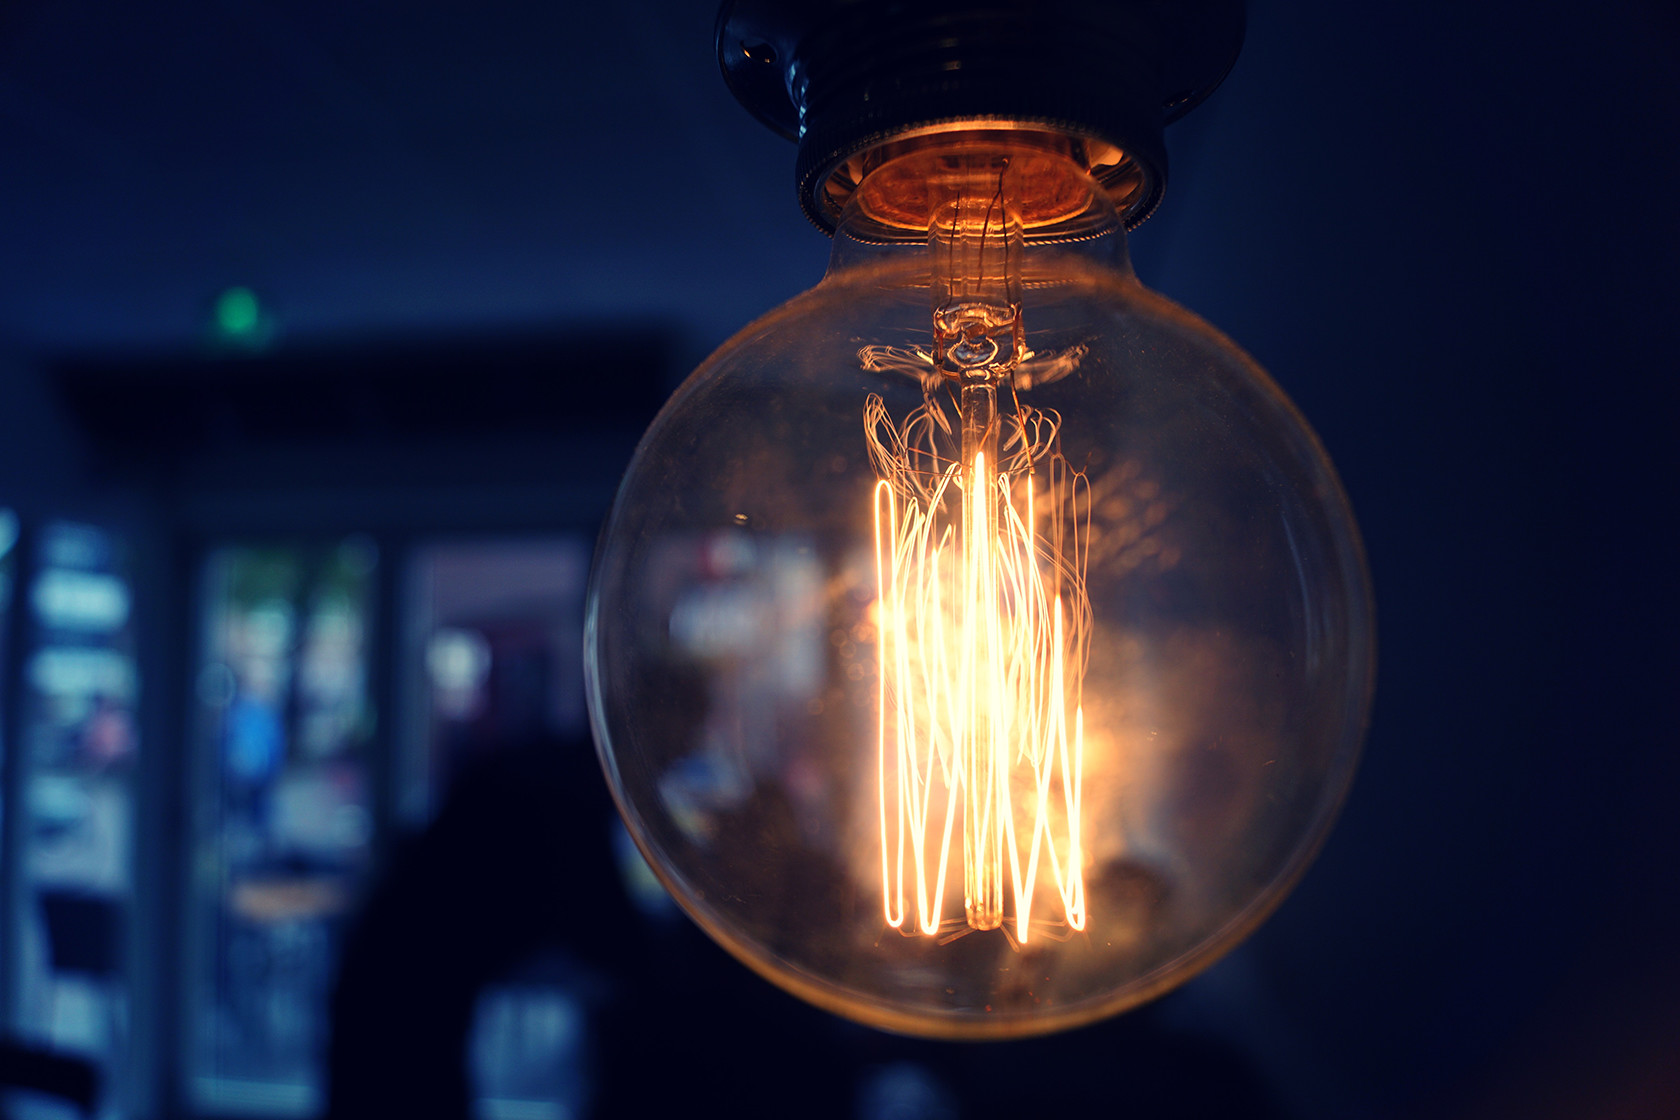
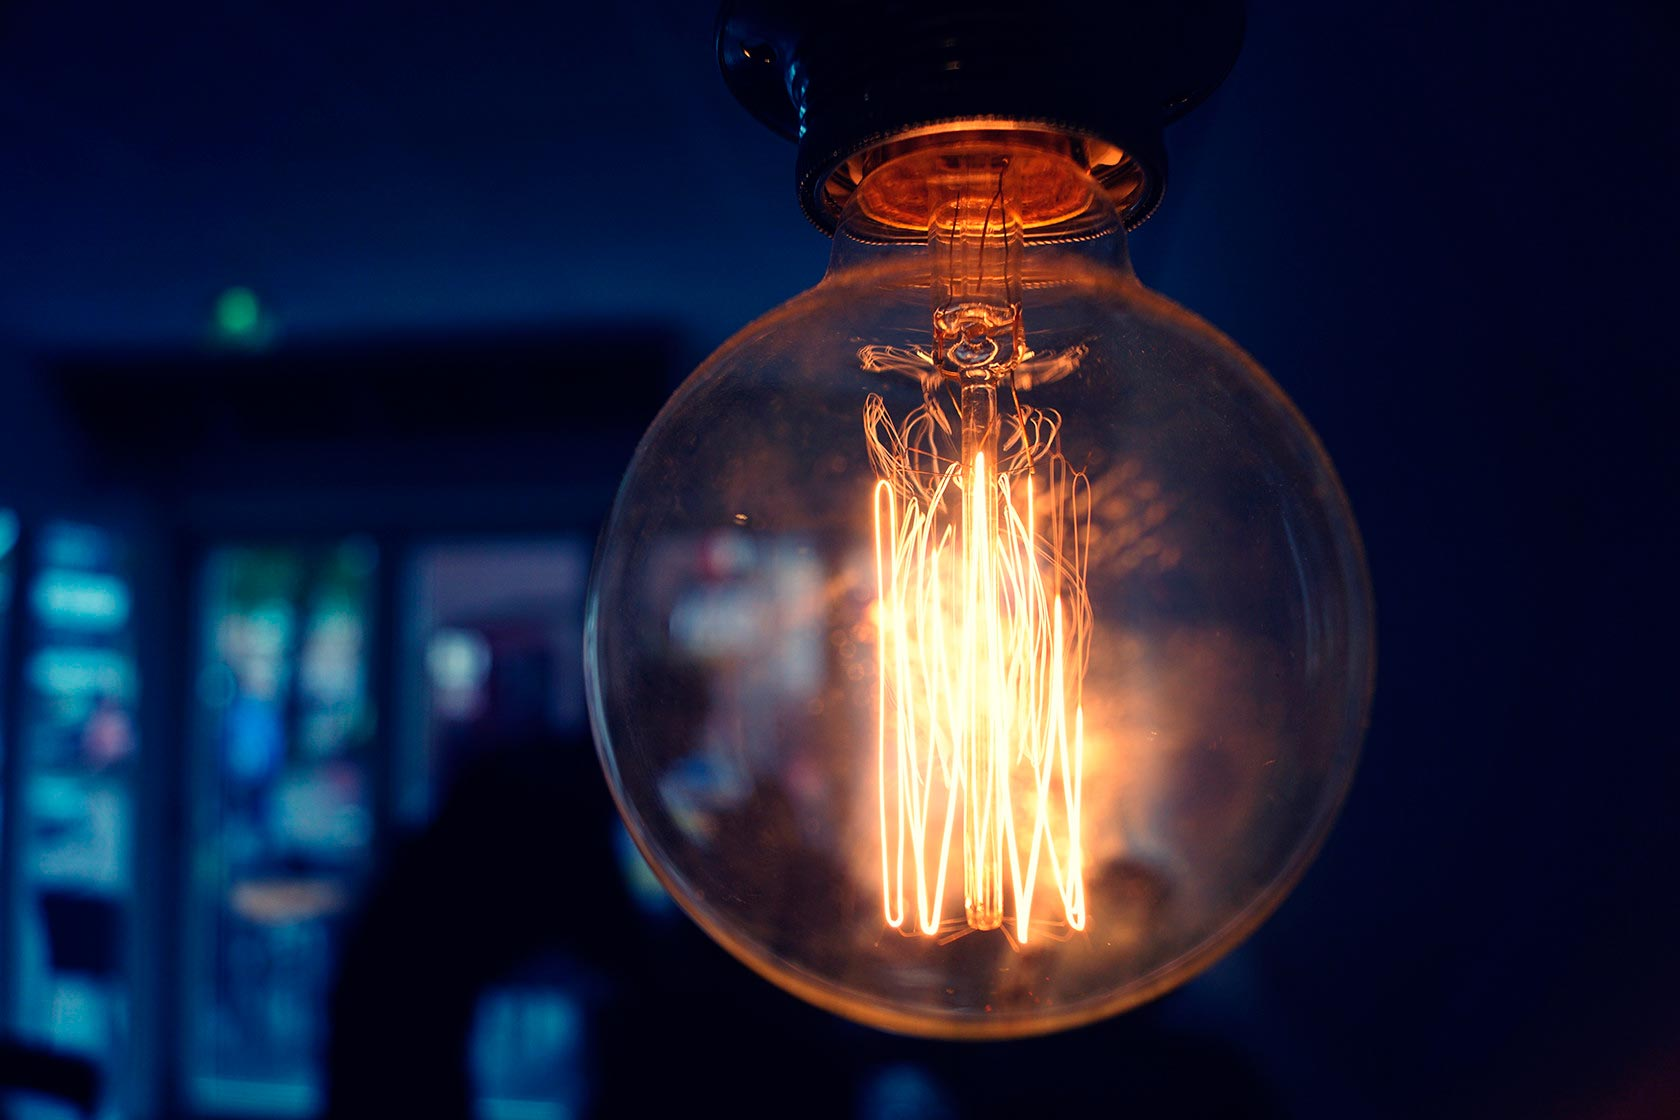
Optimized Images

diff --git a/app/assets/stylesheets/application.css.scss b/app/assets/stylesheets/application.css.scss
@@ -242,14 +242,17 @@ hr{
 			background-color: #29aafe;
 			border-bottom: 1px solid #fff;
 			margin: 0 15px 0 15px;
-    	border-radius: 3px;
+    		border-radius: 3px;
 
 			a{
 				text-decoration: none;
 				font-size: 12px;
-		    font-weight: 600;
-		    text-transform: uppercase;
-		    letter-spacing: 0;
+				font-weight: 600;
+				text-transform: uppercase;
+				letter-spacing: 0;
+				display: block;
+				color: #fff;
+				padding: 15px;
 			}
 		}
 	}
@@ -622,7 +625,7 @@ hr{
 .services-grid{
 	text-align: center;
 	font-size: 0;
-	a{
+	.service {
 		display: inline-block;
 	    float: left;
 	    padding: 30px 20px;
@@ -695,7 +698,9 @@ hr{
 	    font-size: 14px;
 	    line-height: 24px;
 	    display: block;
-	    height: 3.5em;	
+		height: 6.7em;
+		text-align: justify;
+		overflow: hidden;
 	}
 }
 
@@ -2384,6 +2389,10 @@ footer{
 
 	.values-wrapper{
 		width: 100%;
+	}
+
+	.scroll-top{
+		display: none;
 	}
 }
 
